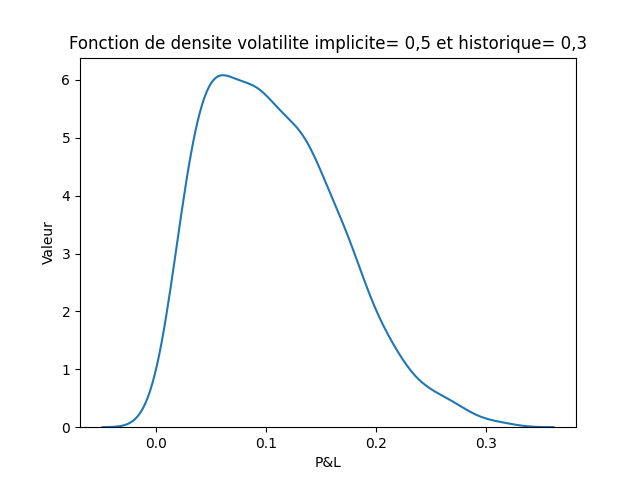
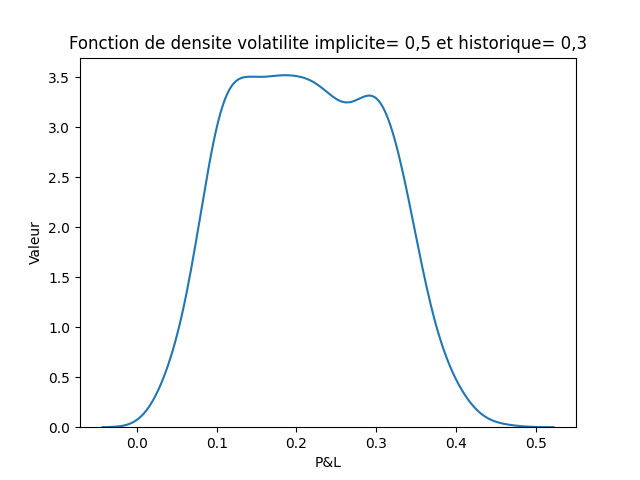
++

diff --git a/Hedging_historique.py b/Hedging_historique.py
@@ -100,7 +100,7 @@ K = 1.5
 T = 5
 Nmc = 1000
 sigma = 0.5
-sigmah = 0.4
+sigmah = 0.3
 N = 100
 
 ProfitandLoss1 = portefeuille_historique(So, r, K, T, N, sigma, sigmah, Nmc)
@@ -111,7 +111,7 @@ plt.title("Fonction de densite volatilite implicite= 0,5 et historique= 0,3")
 plt.savefig('Graph\portefeuille_historique_0-5_0-4.png')
 plt.show()
 
-sigma = 0.4
+sigma = 0.3
 sigmah = 0.5
 ProfitandLoss = portefeuille_historique(So, r, K, T, N, sigma, sigmah, Nmc)
 sns.kdeplot(ProfitandLoss)
@@ -122,14 +122,17 @@ plt.savefig('Graph\portefeuille_historique_0-4_0-5.png')
 plt.show()
 
 
+sigma = 0.3
 sigmah = np.zeros(N + 1)
 for i in range(1, N + 1):
     sigmah[i] = sig()
 
 ProfitandLoss3 = portefeuille_volatilite_implicite_sig_historique(So, r, K, T, N, Nmc, sigma, sigmah)
+
+sns.kdeplot(ProfitandLoss3)
+plt.axvline(x=0, color='r', linestyle='--')
 plt.xlabel("P&L")
 plt.ylabel("Valeur")
 plt.title("Fonction de implicite= 0,5 et historique suit model 1")
-sns.kdeplot(ProfitandLoss3)
 plt.savefig('Graph\portefeuille_sig_historique_stoch.png')
 plt.show()
